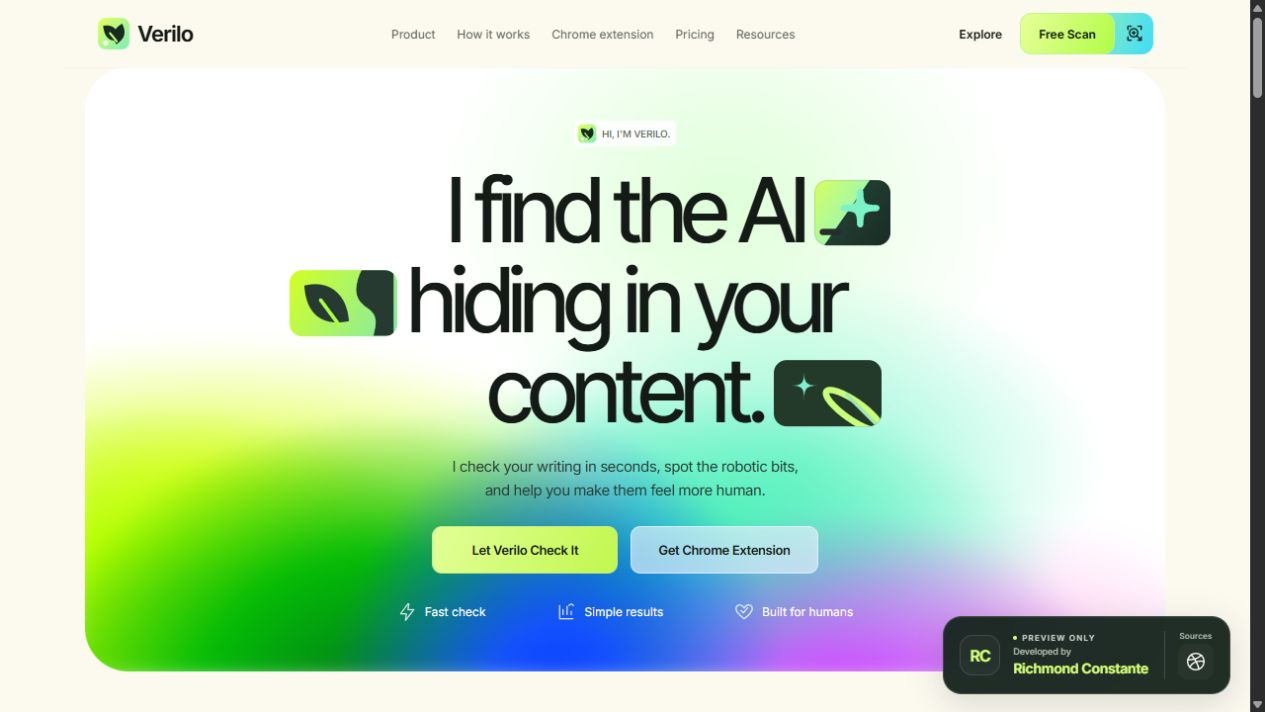
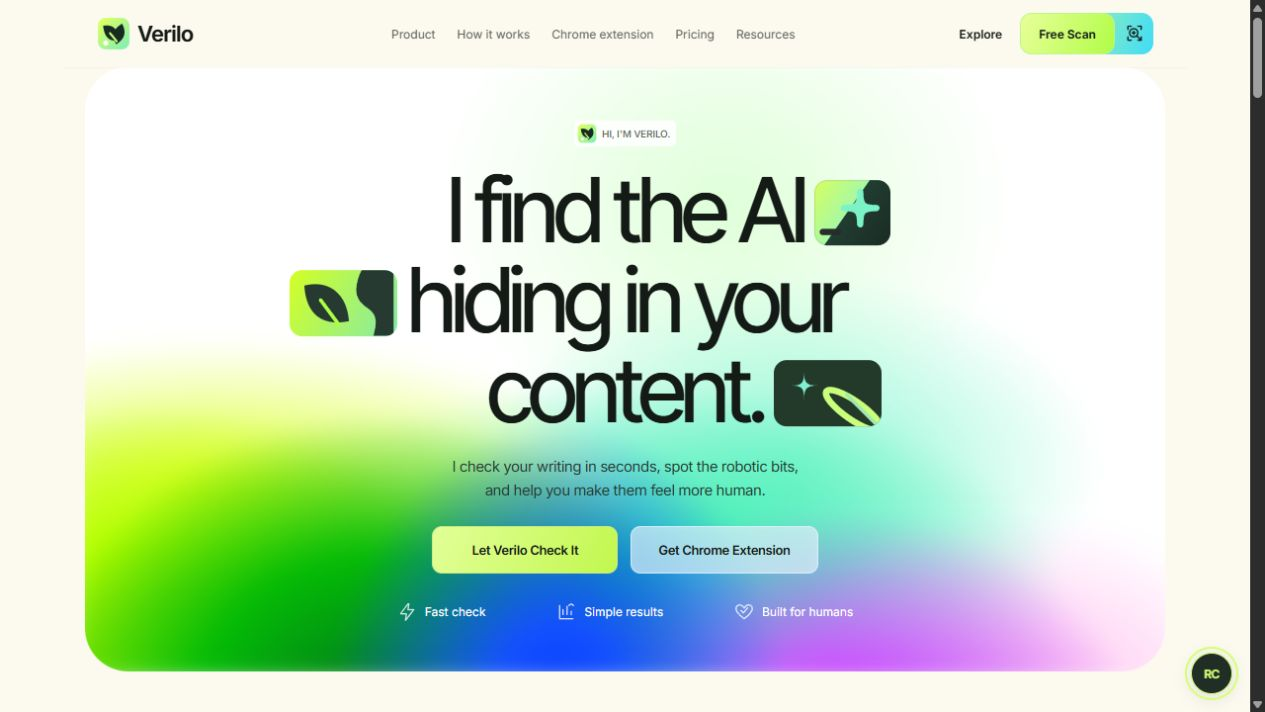
Collapse floating credit into a small expandable circle

Changed region(s): [[0.7399, 0.8652, 0.9866, 0.9888]]

diff --git a/src/components/preview-credit.tsx b/src/components/preview-credit.tsx
@@ -1,53 +1,106 @@
+"use client";
+
+import { useEffect, useId, useRef, useState } from "react";
 import styles from "./preview-credit.module.css";
 
-type PreviewCreditProps = {
-  sourceHref: string;
-  theme: "verilo" | "avora";
-};
+type PreviewCreditProps = { sourceHref: string; theme: "verilo" | "avora" };
 
 export function PreviewCredit({ sourceHref, theme }: PreviewCreditProps) {
+  const [open, setOpen] = useState(false);
+  const root = useRef<HTMLElement>(null);
+  const panelId = useId();
+
+  useEffect(() => {
+    if (!open) return;
+    const dismiss = (event: PointerEvent) => {
+      if (event.target instanceof Node && !root.current?.contains(event.target))
+        setOpen(false);
+    };
+    document.addEventListener("pointerdown", dismiss);
+    return () => document.removeEventListener("pointerdown", dismiss);
+  }, [open]);
+
   return (
     <>
       <div className={styles.clearance} aria-hidden="true" />
       <aside
+        ref={root}
         className={`${styles.credit} ${styles[theme]}`}
         aria-label="Preview and developer credits"
+        data-open={open}
+        onPointerEnter={(event) => {
+          if (event.pointerType !== "touch") setOpen(true);
+        }}
+        onPointerLeave={() => {
+          if (!root.current?.contains(document.activeElement)) setOpen(false);
+        }}
+        onFocusCapture={(event) => {
+          if (event.target.matches(":focus-visible")) setOpen(true);
+        }}
+        onBlurCapture={(event) => {
+          if (!event.currentTarget.contains(event.relatedTarget))
+            setOpen(false);
+        }}
+        onKeyDown={(event) => {
+          if (event.key === "Escape") {
+            event.preventDefault();
+            setOpen(false);
+          }
+        }}
       >
-        <span className={styles.monogram} aria-hidden="true">
-          RC
-        </span>
-        <div className={styles.developer}>
-          <span className={styles.preview}>
-            <span aria-hidden="true" />
-            Preview only
-          </span>
-          <span className={styles.label}>Developed by</span>
-          <strong className={styles.name}>Richmond Constante</strong>
-        </div>
-        <div className={styles.source}>
-          <span className={styles.sourceLabel}>Sources</span>
-          <a
-            className={styles.sourceLink}
-            href={sourceHref}
-            target="_blank"
-            rel="noopener noreferrer"
-            aria-label="View the original design source on Dribbble (opens in a new tab)"
-            title="Original design on Dribbble"
-          >
-            <svg
-              viewBox="0 0 24 24"
-              fill="none"
-              stroke="currentColor"
-              strokeWidth="1.5"
-              strokeLinecap="round"
-              strokeLinejoin="round"
-              aria-hidden="true"
+        <div
+          id={panelId}
+          className={styles.panel}
+          aria-hidden={!open}
+          inert={!open}
+        >
+          <div className={styles.developer}>
+            <span className={styles.preview}>
+              <span aria-hidden="true" />
+              Preview only
+            </span>
+            <span className={styles.label}>Developed by</span>
+            <strong className={styles.name}>Richmond Constante</strong>
+          </div>
+          <div className={styles.source}>
+            <span className={styles.sourceLabel}>Sources</span>
+            <a
+              className={styles.sourceLink}
+              href={sourceHref}
+              target="_blank"
+              rel="noopener noreferrer"
+              aria-label="View the original design source on Dribbble (opens in a new tab)"
+              title="Original design on Dribbble"
             >
-              <circle cx="12" cy="12" r="9" />
-              <path d="M7.1 4.5c4.1 4.7 7.1 10.2 8.4 15.8M3.2 10c5.7.4 10.8-1.2 15-5.1M5.2 18c3.4-5.3 8.5-7.5 15.6-6.2" />
-            </svg>
-          </a>
+              <svg
+                viewBox="0 0 24 24"
+                fill="none"
+                stroke="currentColor"
+                strokeWidth="1.5"
+                strokeLinecap="round"
+                strokeLinejoin="round"
+                aria-hidden="true"
+              >
+                <circle cx="12" cy="12" r="9" />
+                <path d="M7.1 4.5c4.1 4.7 7.1 10.2 8.4 15.8M3.2 10c5.7.4 10.8-1.2 15-5.1M5.2 18c3.4-5.3 8.5-7.5 15.6-6.2" />
+              </svg>
+            </a>
+          </div>
         </div>
+        <button
+          className={styles.trigger}
+          type="button"
+          aria-expanded={open}
+          aria-controls={panelId}
+          aria-label={
+            open
+              ? "Hide developer credits"
+              : "Show developer credits and sources"
+          }
+          onClick={() => setOpen((current) => !current)}
+        >
+          RC
+        </button>
       </aside>
     </>
   );

diff --git a/src/components/preview-credit.module.css b/src/components/preview-credit.module.css
@@ -1,48 +1,95 @@
 .credit {
   --accent: #d3ff77;
+  --surface: #17251ef5;
   position: fixed;
-  right: max(20px, env(safe-area-inset-right));
+  right: max(18px, env(safe-area-inset-right));
   bottom: max(18px, env(safe-area-inset-bottom));
   z-index: 60;
-  display: flex;
-  align-items: center;
-  gap: 13px;
-  max-width: calc(100vw - 24px);
-  padding: 14px 16px;
-  border: 1px solid #ffffff25;
-  border-radius: 19px;
-  color: #fffef8;
-  background: #17251ef5;
-  box-shadow:
-    0 8px 32px #12241c28,
-    inset 0 1px 0 #ffffff0a;
-  backdrop-filter: blur(18px);
+  width: 42px;
+  height: 42px;
   font-family: var(--font-body), Arial, sans-serif;
 }
 .avora {
   --accent: #eee2bf;
-  background: #20231ef5;
+  --surface: #20231ef5;
 }
 .verilo {
   --accent: #d3ff77;
 }
-.monogram {
+.trigger {
   display: grid;
   place-items: center;
-  flex-shrink: 0;
-  width: 41px;
-  height: 41px;
-  border: 1px solid #ffffff20;
-  border-radius: 13px;
+  width: 42px;
+  height: 42px;
+  padding: 0;
+  border: 1px solid #ffffff30;
+  border-radius: 50%;
   color: var(--accent);
-  background: #ffffff08;
-  font-size: 16px;
-  font-weight: 650;
-  letter-spacing: -1px;
+  background: var(--surface);
+  box-shadow: 0 4px 18px #12241c20;
+  font:
+    600 12px var(--font-body),
+    Arial,
+    sans-serif;
+  letter-spacing: -0.5px;
+  cursor: pointer;
+  transition:
+    border-color 0.18s,
+    box-shadow 0.18s;
+}
+.trigger:hover {
+  border-color: var(--accent);
+}
+.trigger:focus-visible,
+.sourceLink:focus-visible {
+  outline: 2px solid var(--accent);
+  outline-offset: 4px;
+}
+.panel {
+  position: absolute;
+  right: 0;
+  bottom: calc(100% + 10px);
+  display: flex;
+  align-items: center;
+  justify-content: space-between;
+  gap: 14px;
+  width: 258px;
+  max-width: calc(100vw - 28px);
+  padding: 14px 16px;
+  border: 1px solid #ffffff25;
+  border-radius: 17px;
+  color: #fffef8;
+  background: var(--surface);
+  box-shadow: 0 8px 28px #12241c24;
+  backdrop-filter: blur(18px);
+  opacity: 0;
+  visibility: hidden;
+  pointer-events: none;
+  transform: translateY(6px) scale(0.97);
+  transform-origin: bottom right;
+  transition:
+    opacity 0.18s,
+    transform 0.18s,
+    visibility 0.18s;
+}
+.credit[data-open="true"] .panel {
+  opacity: 1;
+  visibility: visible;
+  pointer-events: auto;
+  transform: translateY(0) scale(1);
+}
+.credit[data-open="true"]::before {
+  content: "";
+  position: absolute;
+  right: 0;
+  bottom: 100%;
+  width: 258px;
+  max-width: calc(100vw - 28px);
+  height: 12px;
 }
 .developer {
   display: grid;
-  gap: 4px;
+  gap: 5px;
   min-width: 0;
 }
 .preview {
@@ -52,7 +99,7 @@
   color: #d6ded5;
   font-size: 8px;
   font-weight: 500;
-  letter-spacing: 1.2px;
+  letter-spacing: 1px;
   text-transform: uppercase;
 }
 .preview > span {
@@ -68,7 +115,7 @@
 }
 .name {
   color: var(--accent);
-  font-size: 14px;
+  font-size: 13px;
   font-weight: 650;
   line-height: 1.3;
   letter-spacing: -0.3px;
@@ -78,7 +125,6 @@
   display: grid;
   justify-items: center;
   gap: 3px;
-  margin-left: 3px;
   padding-left: 13px;
   border-left: 1px solid #ffffff26;
 }
@@ -90,9 +136,9 @@
 .sourceLink {
   display: grid;
   place-items: center;
-  width: 36px;
-  height: 36px;
-  border-radius: 10px;
+  width: 34px;
+  height: 34px;
+  border-radius: 9px;
   color: #fffef8;
   background: #ffffff08;
   transition:
@@ -100,42 +146,25 @@
     background 0.18s;
 }
 .sourceLink svg {
-  width: 22px;
-  height: 22px;
+  width: 20px;
+  height: 20px;
 }
 .sourceLink:hover {
   color: #17251e;
   background: var(--accent);
 }
-.sourceLink:focus-visible {
-  outline: 2px solid var(--accent);
-  outline-offset: 4px;
-}
 .clearance {
-  height: 105px;
+  height: 66px;
 }
 @media (max-width: 480px) {
   .credit {
     right: max(12px, env(safe-area-inset-right));
     bottom: max(12px, env(safe-area-inset-bottom));
-    padding: 12px 14px;
-    gap: 10px;
-    border-radius: 17px;
-  }
-  .monogram {
-    width: 34px;
-    height: 38px;
-    font-size: 14px;
-  }
-  .name {
-    font-size: 13px;
-  }
-  .source {
-    padding-left: 10px;
-    margin-left: 0;
   }
 }
 @media (prefers-reduced-motion: reduce) {
+  .trigger,
+  .panel,
   .sourceLink {
     transition: none;
   }
